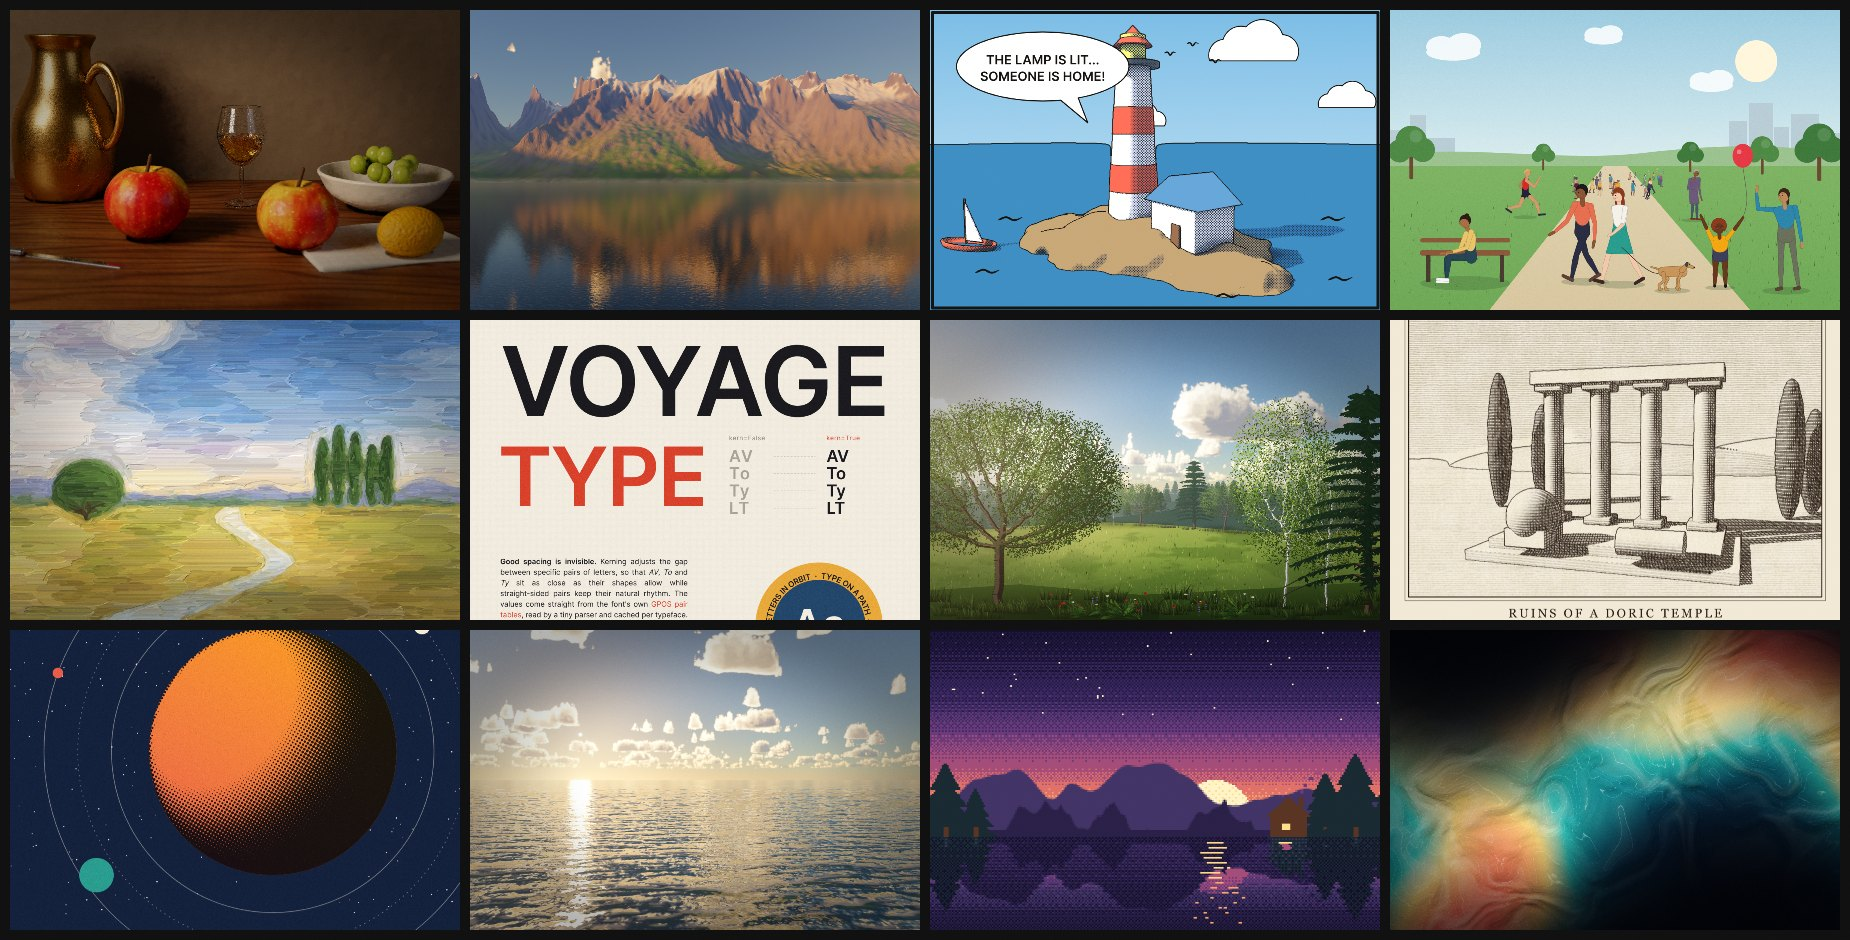
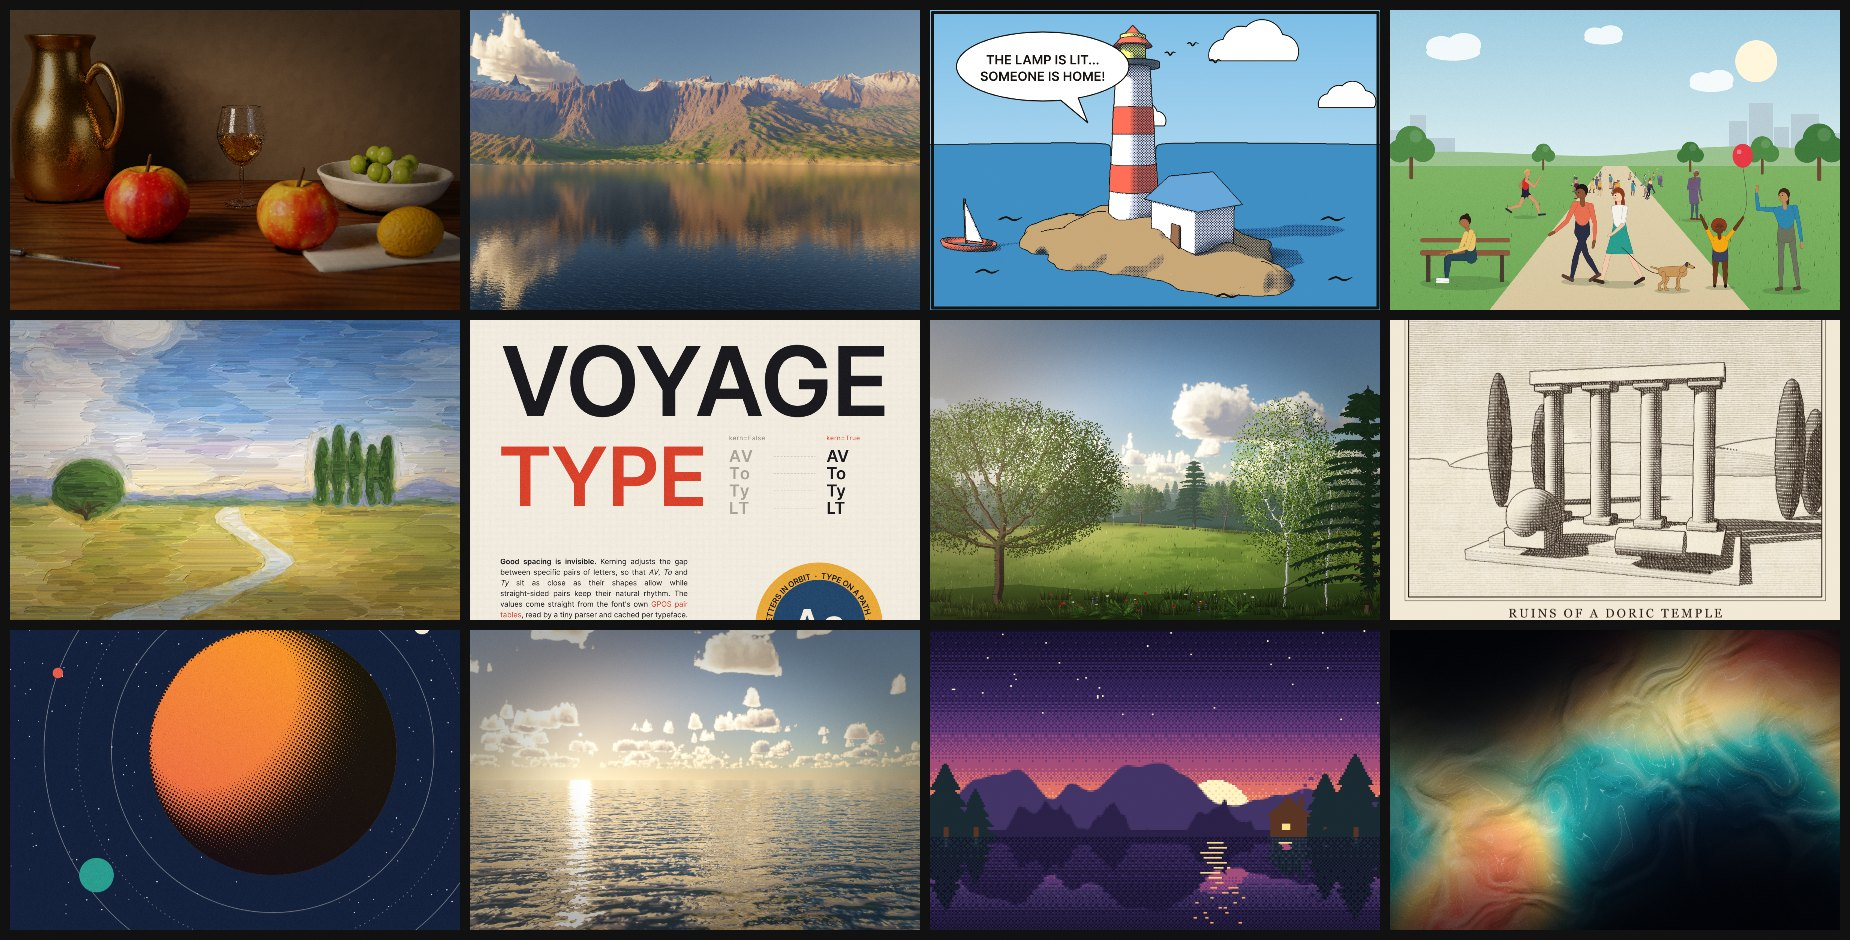
Rework mountains example: larger eroded terrain, closer camera, softer clouds

Changed region(s): [[0.2465, 0.0, 0.5238, 0.3394]]

diff --git a/examples/mountains.py b/examples/mountains.py
@@ -1,19 +1,21 @@
-# Eroded mountain range at golden hour: physical sky, raymarched clouds, aerial perspective, a lake.
+# Eroded alpine range at golden hour: wide valley lake, side light, physical sky and clouds, aerial perspective.
 import numpy as np
 from atelier import *
 from atelier.nature import *
 
-n = 512
-h = heightfield(n, "alpine", seed=SEED + 4, scale=2.2)
+n = 1024
+h = heightfield(n, "alpine", seed=SEED + 4, scale=3.0, warp=0.25, octaves=10)
 zz, xx = np.mgrid[0:n, 0:n] / (n - 1)
-rise = smoothstep(0.22, 0.6, zz)                                   # range rises with distance
-sides = smoothstep(0.18, 0.5, np.abs(xx - 0.5)) * (1 - rise) * 0.35  # foothills framing the lake
-h = h * (0.12 + 0.88 * rise) + sides + rise * 0.12
-h = thermal(h, 20)
-h, flow = erode(h, 1.2, seed=SEED, flow=True)
+rise = smoothstep(0.2, 0.7, zz)                                    # range rises with distance
+sides = smoothstep(0.15, 0.48, np.abs(xx - 0.5)) * (1 - rise) * 0.3
+h = h * (0.08 + 0.92 * rise) + sides + rise * 0.1
+h = thermal(h, 30)
+h, flow = erode(h, 2.5, seed=SEED, flow=True)
 h = (h - h.min()) / (h.max() - h.min())
 
 c = Canvas(1500, 1000)
-v = c.landscape(h, flow=flow, size=16000, height=3400, water=0.08, cam=(8000, 330, 200), fov=48,
-                horizon=0.56, sun_elev=5, sun_az=-125, clouds=0.22, haze=1.4, snow=0.6, cloud_alt=(2600, 3800), waves=0.02, seed=SEED)
+v = c.landscape(h, flow=flow, size=22000, height=3600, water=0.07, cam=(11000, 300, 3200), fov=50,
+              horizon=0.5, sun_elev=7, sun_az=-110, clouds=0.2, haze=1.6, snow=0.62, cloud_alt=(2800, 4200),
+              waves=0.015, trees=0.7, aa=2, seed=SEED)
+c.apply(bloom(0.9, 10, 0.15), grain(0.008, seed=SEED))
 c.save(__file__[:-3] + ".png")
